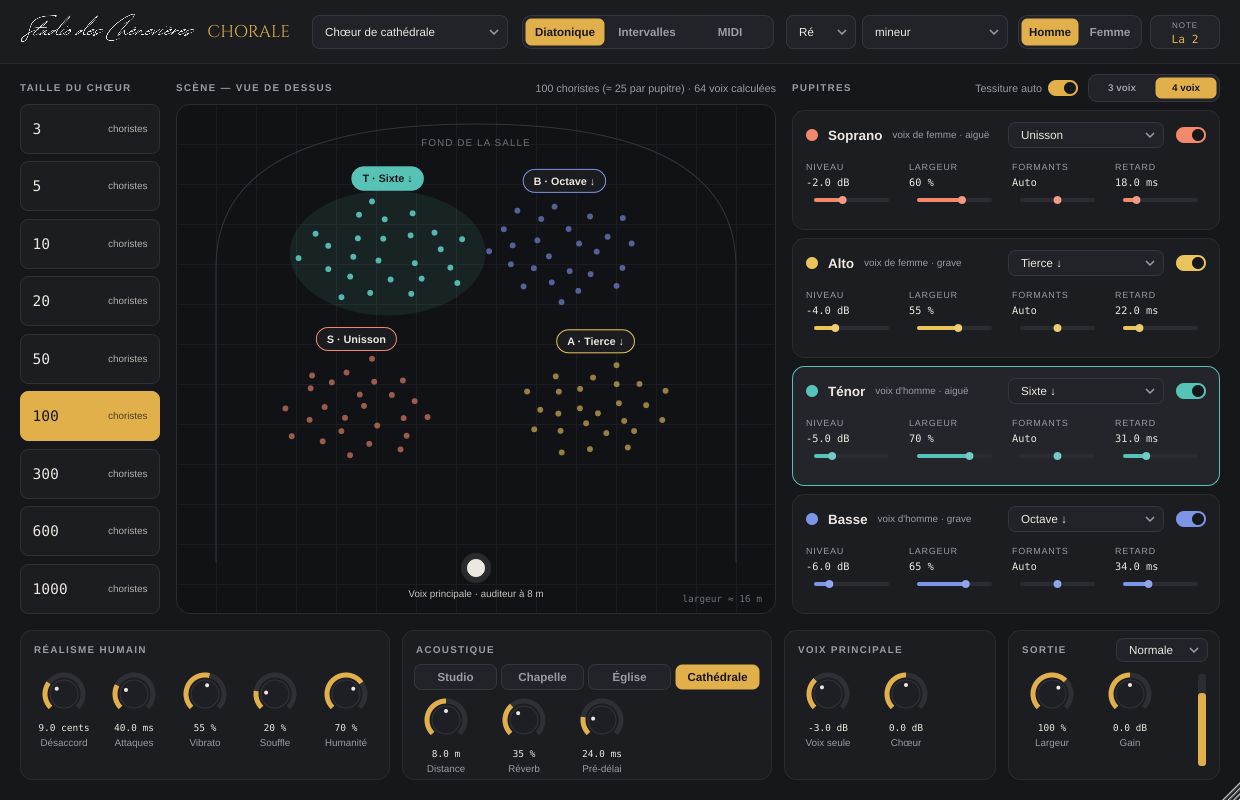
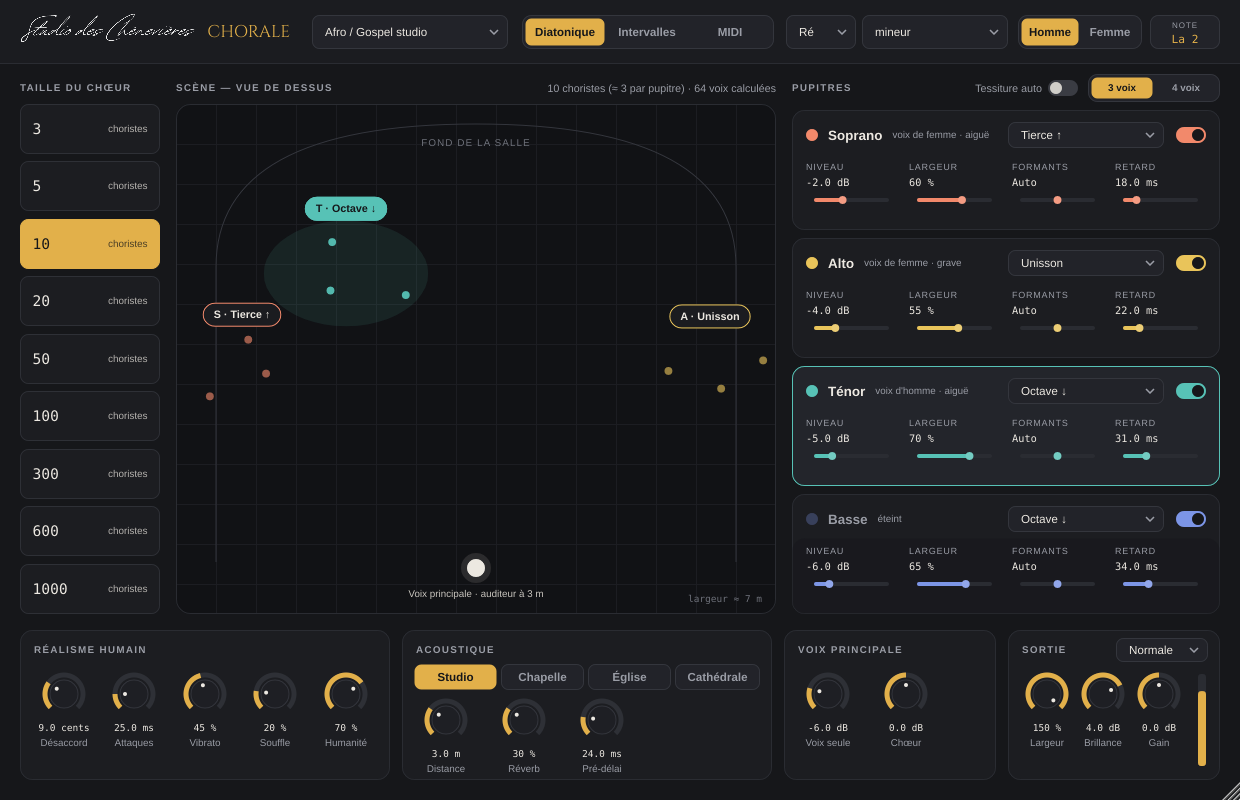
1.1.0 : chœur large en stéréo, brillance, préréglage Afro / Gospel studio
- Panoramique d'après la place latérale sur la scène + écart interaural :
  le chœur s'ouvre autour de la voix (il était presque mono)
- Nouveau réglage Brillance (aigus du chœur)
- Préréglage « Afro / Gospel studio » calqué sur une référence
- Disposition par défaut plus large ; les préréglages peuvent placer les pupitres

Claude-Session: https://claude.ai/code/session_017cWpKEmUojWJevj3t2dg1W

diff --git a/Source/ChoirEngine.cpp b/Source/ChoirEngine.cpp
@@ -35,10 +35,10 @@ static const int kScalePcs[kNumScales][7] = {
 Params::Params()
 {
     // Disposition par défaut (maquette validée) : ténors et basses au fond, sopranos et altos devant
-    sec[0] = { true, 0,  -2.0f, 0.60f, 0.0f, 18.0f, 0.27f, 0.68f };   // S : unisson
-    sec[1] = { true, 9,  -4.0f, 0.55f, 0.0f, 22.0f, 0.73f, 0.68f };   // A : tierce au-dessous
-    sec[2] = { true, 12, -5.0f, 0.70f, 0.0f, 31.0f, 0.33f, 0.30f };   // T : sixte au-dessous
-    sec[3] = { true, 14, -6.0f, 0.65f, 0.0f, 34.0f, 0.67f, 0.30f };   // B : octave au-dessous
+    sec[0] = { true, 0,  -2.0f, 0.60f, 0.0f, 18.0f, 0.20f, 0.68f };   // S : unisson
+    sec[1] = { true, 9,  -4.0f, 0.55f, 0.0f, 22.0f, 0.80f, 0.68f };   // A : tierce au-dessous
+    sec[2] = { true, 12, -5.0f, 0.70f, 0.0f, 31.0f, 0.30f, 0.30f };   // T : sixte au-dessous
+    sec[3] = { true, 14, -6.0f, 0.65f, 0.0f, 34.0f, 0.70f, 0.30f };   // B : octave au-dessous
 }
 
 //==============================================================================
@@ -65,6 +65,14 @@ struct Rng
 struct Biquad
 {
     float b0 = 1, b1 = 0, b2 = 0, a1 = 0, a2 = 0, z1 = 0, z2 = 0;
+    void setHighShelf (double sr, double f, double db)
+    {
+        const double A = std::pow (10.0, db / 40.0), w = 2.0 * 3.141592653589793 * std::min (f, sr * 0.45) / sr;
+        const double cw = std::cos (w), al = std::sin (w) / 2.0 * std::sqrt (2.0), sa = 2.0 * std::sqrt (A) * al;
+        const double B0 = A * ((A + 1) + (A - 1) * cw + sa), B1 = -2 * A * ((A - 1) + (A + 1) * cw), B2 = A * ((A + 1) + (A - 1) * cw - sa);
+        const double A0 = (A + 1) - (A - 1) * cw + sa, A1 = 2 * ((A - 1) - (A + 1) * cw), A2 = (A + 1) - (A - 1) * cw - sa;
+        b0 = (float) (B0 / A0); b1 = (float) (B1 / A0); b2 = (float) (B2 / A0); a1 = (float) (A1 / A0); a2 = (float) (A2 / A0);
+    }
     void set (double sr, double f, double q, int type) // 0 passe-bas, 1 passe-haut, 2 passe-bande
     {
         f = std::min (f, sr * 0.45);
@@ -320,6 +328,7 @@ struct Voice
     // espace
     float delay = 0, delayTarget = 0;
     float gL = 0, gR = 0, gLt = 0, gRt = 0, mono = 0, monoT = 0;
+    float itd = 0, itdSm = 0, airStateR = 0;
     float airCoef = 0, airState = 0;
 
     std::vector<float> acc;
@@ -560,6 +569,7 @@ struct Engine::Impl
     double sr = 48000;
     int maxBlock = 512;
     int latency = 0;
+    int itdMax = 0;
     double Tmax = 640, Tu = 288;
 
     // entrée
@@ -594,6 +604,7 @@ struct Engine::Impl
     std::vector<float> busL, busR, mono;
     float envIn = 0, envCoefA = 0, envCoefR = 0;
     float leadSm = 0, choirSm = 0, outSm = 0, wetSm = 0, widthSm = 1;
+    Biquad shelfL, shelfR;   // brillance du chœur
     float gainSmCoef = 0;
 
     std::atomic<float> detectedMidi { -1.0f };
@@ -607,6 +618,7 @@ struct Engine::Impl
         maxBlock = std::max (1, block);
         Tmax = sr / kMinF0;
         Tu = std::max (16.0, 0.006 * sr);
+        itdMax = (int) std::ceil (0.0007 * sr) + 2;
 
         pitch.prepare (sr);
         const int hopFull = pitch.hop * pitch.D;
@@ -700,6 +712,7 @@ struct Engine::Impl
             for (auto& t : sec.taps) { t.state = 0; t.apX = t.apY = 0; }
         }
         hall.clear();
+        shelfL.reset(); shelfR.reset();
         envIn = 0;
         detectedMidi.store (-1.0f);
     }
@@ -745,13 +758,18 @@ struct Engine::Impl
             const float cx = (sp.x - 0.5f) * stageW, cy = sp.y * stageD;
             const float R = std::sqrt ((float) per * 0.55f / kPi) * (0.45f + 1.1f * sp.spread) + 0.15f;
 
-            auto place = [&] (float u, float v, float& gl, float& gr, float& dist, float& air)
+            auto place = [&] (float u, float v, float& gl, float& gr, float& dist, float& air, float& itd)
             {
                 const float px = cx + u * R, py = cy + v * R * 0.62f;
                 const float dx = px, dy = std::max (0.5f, listenerY - py);
                 dist = std::sqrt (dx * dx + dy * dy) + 0.3f;
                 const float az = std::atan2 (dx, dy);
-                const float pan = std::clamp (std::sin (az) * 1.7f, -1.0f, 1.0f);
+                // Panoramique d'après la place sur toute la largeur de la scène (comme un couple de micros devant
+                // le chœur), et non d'après l'angle vu de loin : sinon tout le chœur se tasse au centre (mesuré :
+                // corrélation G/D +0,9, presque mono ; une référence du commerce est à -0,2).
+                const float lateral = px / (0.5f * stageW);
+                const float pan = std::clamp (0.85f * lateral * 1.25f + 0.15f * std::sin (az) * 1.7f, -1.0f, 1.0f);
+                itd = pan * 0.00062f * (float) sr;   // l'oreille opposée entend un peu plus tard (≤ 0,62 ms)
                 const float th = (pan + 1.0f) * kPi * 0.25f;
                 const float g = std::clamp ((applied.distanceM + 1.5f) / dist, 0.15f, 1.6f);
                 gl = std::cos (th) * g; gr = std::sin (th) * g;
@@ -769,9 +787,10 @@ struct Engine::Impl
                 const bool want = i < real;
                 if (want)
                 {
-                    float gl, gr, dist, air;
+                    float gl, gr, dist, air, itd;
                     const float uu = real == 1 ? 0.0f : v.u, vv = real == 1 ? 0.0f : v.v;
-                    place (uu, vv, gl, gr, dist, air);
+                    place (uu, vv, gl, gr, dist, air, itd);
+                    v.itd = itd;
                     const float ampVar = dbToGain (v.amp * 1.6f * hum);
                     v.gLt = gl * sec.realGain * ampVar * lvl;
                     v.gRt = gr * sec.realGain * ampVar * lvl;
@@ -795,8 +814,8 @@ struct Engine::Impl
             Rng r ((uint32_t) (0x9a55 + s * 17));
             for (auto& t : sec.taps)
             {
-                float gl, gr, dist, air;
-                place (r.bi() * 0.9f, r.bi() * 0.9f, gl, gr, dist, air);
+                float gl, gr, dist, air, itd;
+                place (r.bi() * 0.9f, r.bi() * 0.9f, gl, gr, dist, air, itd);
                 t.gL = gl; t.gR = gr;
                 t.airCoef = std::min (0.995f, air * 1.03f);
             }
@@ -815,13 +834,13 @@ struct Engine::Impl
         v.delay = v.delayTarget;
         const double tv = (double) (writePos - latency) - v.delay;
         v.nextSynth = std::floor (tv);
-        v.cleared = (int64_t) std::floor (tv) - 2;
+        v.cleared = (int64_t) std::floor (tv) - 2 - itdMax;
         std::fill (v.acc.begin(), v.acc.end(), 0.0f);
         v.cursor = std::max<int64_t> (0, markCount - kMarkCap);
         v.offsetInit = false;
         v.lastTarget = 1e9f;
         v.noteAge = 0;
-        v.gL = v.gR = 0; v.mono = 0; v.airState = 0;
+        v.gL = v.gR = 0; v.mono = 0; v.airState = 0; v.airStateR = 0; v.itdSm = v.itd;
         v.lastHalfOut = Tu; v.lastTs = Tu;
         (void) s;
     }
@@ -1195,17 +1214,28 @@ struct Engine::Impl
             const float fr = (float) (tv - fl);
             const float a = v.acc[(size_t) (i0 & v.accMask)], b = v.acc[(size_t) ((i0 + 1) & v.accMask)];
             const float y = a + fr * (b - a);
+            // écart interaural : l'oreille du côté opposé lit le même choriste un peu plus tôt dans le passé
+            v.itdSm += (v.itd - v.itdSm) * 0.001f;
+            const double tl = tv - (double) std::max (0.0f, -v.itdSm), tr = tv - (double) std::max (0.0f, v.itdSm);
+            auto readAcc = [&v] (double t) {
+                const double f0 = std::floor (t); const int64_t k = (int64_t) f0; const float q = (float) (t - f0);
+                const float p0 = v.acc[(size_t) (k & v.accMask)], p1 = v.acc[(size_t) ((k + 1) & v.accMask)];
+                return p0 + q * (p1 - p0);
+            };
+            const float yl = v.itdSm < 0 ? readAcc (tl) : y;
+            const float yr = v.itdSm > 0 ? readAcc (tr) : y;
 
             v.gL += (v.gLt - v.gL) * gainSmCoef;
             v.gR += (v.gRt - v.gR) * gainSmCoef;
             v.mono += (v.monoT - v.mono) * gainSmCoef;
-            v.airState = y + v.airCoef * (v.airState - y);
+            v.airState = yl + v.airCoef * (v.airState - yl);
+            v.airStateR = yr + v.airCoef * (v.airStateR - yr);
             L[i] += v.airState * v.gL;
-            R[i] += v.airState * v.gR;
+            R[i] += v.airStateR * v.gR;
             M[i] += y * v.mono;
         }
         // on efface ce qui a été lu
-        const int64_t upTo = (int64_t) std::floor (tv) - 1;
+        const int64_t upTo = (int64_t) std::floor (tv) - 2 - itdMax;   // on garde de quoi lire l'écart interaural
         for (int64_t k = v.cleared + 1; k <= upTo; ++k) v.acc[(size_t) (k & v.accMask)] = 0.0f;
         if (upTo > v.cleared) v.cleared = upTo;
 
@@ -1216,8 +1246,16 @@ struct Engine::Impl
     void process (const float* const* in, int numIn, float* const* out, int numOut, int n)
     {
         // réglages
-        if (firstParams) { applied = p; firstParams = false; hall.setHall (applied.hall); hall.setPredelay (applied.predelayMs); updateGeometry(); }
-        else if (paramsChanged()) { applied = p; hall.setHall (applied.hall); hall.setPredelay (applied.predelayMs); updateGeometry(); }
+        if (firstParams || paramsChanged())
+        {
+            const bool first = firstParams;
+            applied = p; firstParams = false;
+            hall.setHall (applied.hall); hall.setPredelay (applied.predelayMs);
+            shelfL.setHighShelf (sr, 6500.0, applied.brightnessDb);
+            shelfR.setHighShelf (sr, 6500.0, applied.brightnessDb);
+            if (first) { shelfL.reset(); shelfR.reset(); }
+            updateGeometry();
+        }
         if (chordDirty) { rebuildChord(); chordDirty = false; }
 
         const int64_t blockStart = writePos;
@@ -1325,6 +1363,8 @@ struct Engine::Impl
             wetSm += (wetT - wetSm) * gainSmCoef;
             widthSm += (widthT - widthSm) * gainSmCoef;
 
+            L[i] = shelfL.process (L[i]);
+            R[i] = shelfR.process (R[i]);
             float wl, wr;
             hall.process (L[i], R[i], wl, wr);
             float cl = L[i] * (1.0f - 0.3f * wetSm) + wl * wetSm;
@@ -1351,7 +1391,7 @@ struct Engine::Impl
             || a.sourceFemale != b.sourceFemale || a.numSections != b.numSections || a.quality != b.quality || a.fold != b.fold
             || ne (a.detuneCents, b.detuneCents) || ne (a.attackMs, b.attackMs) || ne (a.vibrato, b.vibrato) || ne (a.breath, b.breath)
             || ne (a.humanity, b.humanity) || a.hall != b.hall || ne (a.distanceM, b.distanceM) || ne (a.reverb, b.reverb)
-            || ne (a.predelayMs, b.predelayMs) || ne (a.leadDb, b.leadDb) || ne (a.choirDb, b.choirDb) || ne (a.width, b.width) || ne (a.gainDb, b.gainDb))
+            || ne (a.predelayMs, b.predelayMs) || ne (a.leadDb, b.leadDb) || ne (a.choirDb, b.choirDb) || ne (a.width, b.width) || ne (a.gainDb, b.gainDb) || ne (a.brightnessDb, b.brightnessDb))
             return true;
         for (int s = 0; s < kSections; ++s)
         {

diff --git a/Source/PluginEditor.cpp b/Source/PluginEditor.cpp
@@ -316,6 +316,7 @@ ChoraleEditor::ChoraleEditor (ChoraleProcessor& p)
     leadKnobs.add (new Knob (apvts, ids::lead, u ("Voix seule"), u ("Niveau de la voix d'origine (tout à gauche : coupée)")));
     leadKnobs.add (new Knob (apvts, ids::choirLevel, u ("Chœur"), u ("Niveau du chœur")));
     outKnobs.add (new Knob (apvts, ids::width, u ("Largeur"), u ("Largeur stéréo du chœur")));
+    outKnobs.add (new Knob (apvts, ids::brightness, u ("Brillance"), u ("Air et présence dans les aigus du chœur")));
     outKnobs.add (new Knob (apvts, ids::gain, u ("Gain"), u ("Gain de sortie")));
     for (auto* arr : { &realism, &acoustics, &leadKnobs, &outKnobs })
         for (auto* k : *arr) content.addAndMakeVisible (k);
@@ -399,10 +400,10 @@ void ChoraleEditor::layoutContent()
     float x = 20;
     for (int i = 0; i < 4; ++i) { groupArea[i] = { x, 630, widths[i], 150 }; x += widths[i] + 12; }
 
-    auto placeKnobs = [] (juce::OwnedArray<Knob>& ks, juce::Rectangle<float> area, float y, float kw)
+    auto placeKnobs = [] (juce::OwnedArray<Knob>& ks, juce::Rectangle<float> area, float y, float kw, float reserveRight = 0)
     {
         const float total = kw * (float) ks.size();
-        const float gap = ks.size() > 1 ? juce::jmin (14.0f, (area.getWidth() - 24 - total) / (float) (ks.size() - 1)) : 0;
+        const float gap = ks.size() > 1 ? juce::jmin (14.0f, (area.getWidth() - 24 - reserveRight - total) / (float) (ks.size() - 1)) : 0;
         float kx = area.getX() + 12;
         for (auto* k : ks) { k->setBounds ((int) kx, (int) (area.getY() + y), (int) kw, 82); kx += kw + gap; }
     };
@@ -410,7 +411,7 @@ void ChoraleEditor::layoutContent()
     hallButtons.setBounds ((int) groupArea[1].getX() + 12, (int) groupArea[1].getY() + 34, (int) groupArea[1].getWidth() - 24, 26);
     placeKnobs (acoustics, groupArea[1], 66, 64);
     placeKnobs (leadKnobs, groupArea[2], 40, 64);
-    placeKnobs (outKnobs, groupArea[3], 40, 64);
+    placeKnobs (outKnobs, groupArea[3], 40, 54, 22);   // place du vumètre à droite
     qualityBox.setBounds ((int) groupArea[3].getRight() - 12 - 92, (int) groupArea[3].getY() + 8, 92, 24);
     meterArea = { groupArea[3].getRight() - 22, groupArea[3].getY() + 44, 8, 92 };
 }

diff --git a/Source/Presets.cpp b/Source/Presets.cpp
@@ -16,6 +16,11 @@ const std::vector<Preset>& all()
     using namespace ids;
     static const std::vector<Preset> list = {
         { "Chœur de cathédrale", {} },   // = réglages par défaut
+        { "Afro / Gospel studio", { { size, 2 }, { voices, 0 }, { hall, 0 }, { distance, 3 }, { reverb, 30 }, { attack, 25 }, { vibrato, 45 },
+                                    { width, 150 }, { brightness, 4 }, { lead, -6 }, { fold, 0 },
+                                    { sec (0, interval), 2 }, { sec (1, interval), 0 }, { sec (2, interval), 14 },
+                                    { sec (0, x), 0.05f }, { sec (0, y), 0.6f }, { sec (1, x), 0.95f }, { sec (1, y), 0.6f },
+                                    { sec (2, x), 0.25f }, { sec (2, y), 0.35f } } },
         { "Grand chœur de cathédrale", { { size, 6 }, { hall, 3 }, { distance, 14 }, { reverb, 45 }, { attack, 45 } } },
         { "Chœur symphonique", { { size, 5 }, { hall, 2 }, { distance, 10 }, { reverb, 35 } } },
         { "Chœur de chambre", { { size, 3 }, { hall, 2 }, { distance, 6 }, { reverb, 28 }, { attack, 30 }, { humanity, 75 } } },
@@ -51,12 +56,12 @@ juce::String name (int index)
 void apply (juce::AudioProcessorValueTreeState& apvts, int index)
 {
     if (index < 0 || index >= count()) return;
-    // tout revient au réglage par défaut (sauf la place des pupitres, la voix d'origine et la tonalité, propres au morceau)
+    // tout revient au réglage par défaut (sauf la voix d'origine, la tonalité et la qualité, propres au morceau et à l'ordinateur)
     for (auto* p : apvts.processor.getParameters())
         if (auto* rp = dynamic_cast<juce::RangedAudioParameter*> (p))
         {
             const auto id = rp->getParameterID();
-            if (id.endsWith ("_x") || id.endsWith ("_y") || id == ids::source || id == ids::key || id == ids::scale || id == ids::quality)
+            if (id == ids::source || id == ids::key || id == ids::scale || id == ids::quality)
                 continue;
             rp->setValueNotifyingHost (rp->getDefaultValue());
         }

diff --git a/Source/PluginProcessor.cpp b/Source/PluginProcessor.cpp
@@ -74,6 +74,7 @@ juce::AudioProcessorValueTreeState::ParameterLayout ChoraleProcessor::createLayo
     layout.add (dbParam (choirLevel, u ("Chœur"), -24, 12, def.choirDb));
     layout.add (pct (width, u ("Largeur stéréo"), def.width * 100, 0, 150));
     layout.add (dbParam (gain, u ("Gain de sortie"), -24, 12, def.gainDb));
+    layout.add (dbParam (brightness, u ("Brillance"), -6, 9, def.brightnessDb));
 
     const auto secNames = names::sectionNames();
     for (int s = 0; s < choir::kSections; ++s)
@@ -104,7 +105,7 @@ ChoraleProcessor::ChoraleProcessor()
 {
     using namespace ids;
     const char* globals[] = { size, mode, key, scale, source, voices, quality, fold, detune, attack, vibrato, breath, humanity,
-                              hall, distance, reverb, predelay, lead, choirLevel, width, gain };
+                              hall, distance, reverb, predelay, lead, choirLevel, width, gain, brightness };
     for (size_t i = 0; i < std::size (globals); ++i) raw[i] = apvts.getRawParameterValue (globals[i]);
     for (int s = 0; s < choir::kSections; ++s)
     {
@@ -139,6 +140,7 @@ choir::Params ChoraleProcessor::readParams() const
     p.choirDb = v (18);
     p.width = v (19) * 0.01f;
     p.gainDb = v (20);
+    p.brightnessDb = v (21);
     for (int s = 0; s < choir::kSections; ++s)
     {
         const auto& r = secRaw[s];

diff --git a/tests/ProcessorTest.cpp b/tests/ProcessorTest.cpp
@@ -69,9 +69,9 @@ int main()
             CHECK (p->getCurrentProgram() == i, "programme %d", i);
             CHECK (runAudio (*p, 2, 2, 60), "préréglage %s", presets::name (i).toRawUTF8());
         }
-        p->setCurrentProgram (6);   // Gospel : 3 voix
+        p->setCurrentProgram (7);   // Gospel : 3 voix
         CHECK (p->apvts.getRawParameterValue (ids::voices)->load() < 0.5f, "Gospel en 3 voix");
-        p->setCurrentProgram (1);
+        p->setCurrentProgram (2);
         CHECK (p->apvts.getRawParameterValue (ids::voices)->load() > 0.5f, "retour à 4 voix");
         CHECK ((int) p->apvts.getRawParameterValue (ids::size)->load() == 6, "grand chœur : 300 choristes");
         p->setCurrentProgram (0);
@@ -110,7 +110,7 @@ int main()
     {
         const int n = p->getParameters().size();
         std::printf ("   %d paramètres\n", n);
-        CHECK (n == 21 + 8 * choir::kSections, "nombre de paramètres : %d", n);
+        CHECK (n == 22 + 8 * choir::kSections, "nombre de paramètres : %d", n);
         juce::StringArray seen;
         for (auto* prm : p->getParameters())
             if (auto* rp = dynamic_cast<juce::RangedAudioParameter*> (prm))

diff --git a/Source/StageView.cpp b/Source/StageView.cpp
@@ -178,12 +178,12 @@ void StageView::paint (juce::Graphics& g)
     g.fillEllipse (me.x - 9.0f, me.y - 9.0f, 18.0f, 18.0f);
     g.setColour (juce::Colour (0xffc9c5be));
     g.setFont (ui (11.0f));
-    g.drawText (juce::String (juce::CharPointer_UTF8 ("Voix principale · auditeur à ")) + juce::String (value (ids::distance), 0) + " m",
+    g.drawText (juce::String (juce::CharPointer_UTF8 ("Voix principale · auditeur à ")) + juce::String (juce::roundToInt (value (ids::distance))) + " m",
                 juce::Rectangle<float> (300.0f, 16.0f).withCentre ({ me.x, me.y + 26.0f }), juce::Justification::centred);
 
     g.setColour (dim);
     g.setFont (mono (11.0f));
-    g.drawText (juce::String (juce::CharPointer_UTF8 ("largeur ≈ ")) + juce::String (stageWidthMetres(), 0) + " m",
+    g.drawText (juce::String (juce::CharPointer_UTF8 ("largeur ≈ ")) + juce::String (juce::roundToInt (stageWidthMetres())) + " m",
                 b.reduced (14.0f, 10.0f), juce::Justification::bottomRight);
 }
 

diff --git a/tests/EngineTest.cpp b/tests/EngineTest.cpp
@@ -223,6 +223,7 @@ int main (int argc, char** argv)
             else if (k == "vib") p.vibrato = v / 100; else if (k == "breath") p.breath = v / 100; else if (k == "hum") p.humanity = v / 100;
             else if (k == "det") p.detuneCents = v; else if (k == "lead") p.leadDb = v; else if (k == "choir") p.choirDb = v;
             else if (k == "width") p.width = v / 100; else if (k == "pre") p.predelayMs = v;
+            else if (k == "bright") p.brightnessDb = v;
             else if (k.size() > 2 && k[0] == 's' && k[1] >= '0' && k[1] <= '3')
             {
                 auto& s = p.sec[(size_t) (k[1] - '0')];

diff --git a/Source/ParamIDs.h b/Source/ParamIDs.h
@@ -27,6 +27,7 @@ inline const char* const lead     = "lead";
 inline const char* const choirLevel = "choir";
 inline const char* const width    = "width";
 inline const char* const gain     = "gain";
+inline const char* const brightness = "bright";
 
 // Paramètres de pupitre : « s0_on », « s2_int »…
 inline juce::String sec (int s, const char* what) { return "s" + juce::String (s) + "_" + what; }

diff --git a/Source/ChoirEngine.h b/Source/ChoirEngine.h
@@ -67,6 +67,7 @@ struct Params
     float choirDb = 0.0f;
     float width = 1.0f;                      // 0 … 1.5
     float gainDb = 0.0f;
+    float brightnessDb = 3.0f;               // brillance du chœur (étagère aiguë à 6,5 kHz, -6 … +9 dB)
 
     std::array<SectionParams, kSections> sec;
 

diff --git a/NOTES-DEV.md b/NOTES-DEV.md
@@ -103,6 +103,7 @@ build/ChoraleSnapshot docs/apercu.png [preset=N] [size=N] [scale=1.5]
 
 | Version | Contenu |
 |---|---|
+| 1.1.0 | Stéréo : panoramique d'après la place latérale sur la scène (+ écart interaural ≤ 0,62 ms) au lieu de l'angle vu de loin — le chœur était presque mono (corrélation G/D +0,9). Nouveau réglage **Brillance** (étagère 6,5 kHz, -6…+9 dB, +3 par défaut), disposition par défaut plus large, préréglage **Afro / Gospel studio** calqué sur une vidéo de référence (Wakhama Voice Choir, « Afrobeat Choir ») envoyée par Mathieu : même signature stéréo (chœur seul : corrélation -0,16, référence -0,17). Les préréglages peuvent fixer la place des pupitres. |
 | 1.0.3 | Marques de période par corrélation avec la période précédente, au sous-échantillon près (+ ancrage lent sur le sommet) : jitter d'un choriste 2,1 % → 0,55 % (voix d'origine 0,43 %, mesuré avec Praat) — c'était la principale cause du son « numérique ». Consonnes plus discrètes chez les choristes (grains non voisés à 0,4), vibrato dont la vitesse et l'amplitude flottent. |
 | 1.0.2 | Moins « robotique » (retour de Mathieu) : les choristes ne recopient plus la justesse fine du chanteur (ils chantent la note juste et ne suivent que 30 % de ses inflexions : vibrato, glissés), timbre plus varié d'un choriste à l'autre (formants ±6,5 %, couleur des aigus, niveau qui respire), attaques redistribuées à chaque phrase, masse sans effet de flanger (retards 16–71 ms, double modulation lente, passe-tout de décorrélation). |
 | 1.0.1 | Après écoute des voix de Mathieu (24/10/2026) : basse vraiment à l'octave (grain asymétrique vers le grave, sous-octave passée de -18 dB à -3 dB sous la fondamentale), plus d'erreur d'octave du détecteur sur les voyelles à 2e harmonique fort (continuité ≤ 40 ms), tessiture automatique par phrase (une octave par pupitre, revue seulement en début de note), attaques transposées dès la première consonne voisée. |
@@ -115,6 +116,12 @@ Chaque pupitre seul, hauteur comparée trame par trame (pyin) sur les passages a
   (majeure ou mineure selon la note) ~99 % ;
 - voix A (très ornée) : 86–89 % ; le reste = ornements mesurés en passage.
 Fichiers de test : `tests/` ne les contient pas (voix de Mathieu, à garder privées).
+
+## Comparaison avec une référence (24/10/2026)
+
+Vidéo de Wakhama Voice Choir (8 voix, Room 30 %, largeur 70 %, mix 60 %) : `/tmp/claude-0/ref/measure.py` calcule la corrélation
+G/D, le rapport côtés/centre, l'énergie > 4 et > 8 kHz, le centroïde et l'« étalement » des harmoniques (platitude 150–1500 Hz).
+La référence : corrélation -0,17, côtés +1,5 dB au-dessus du centre, harmoniques très étalées, brillance ×7 par rapport à la voix seule.
 
 ## En attente / idées
 
